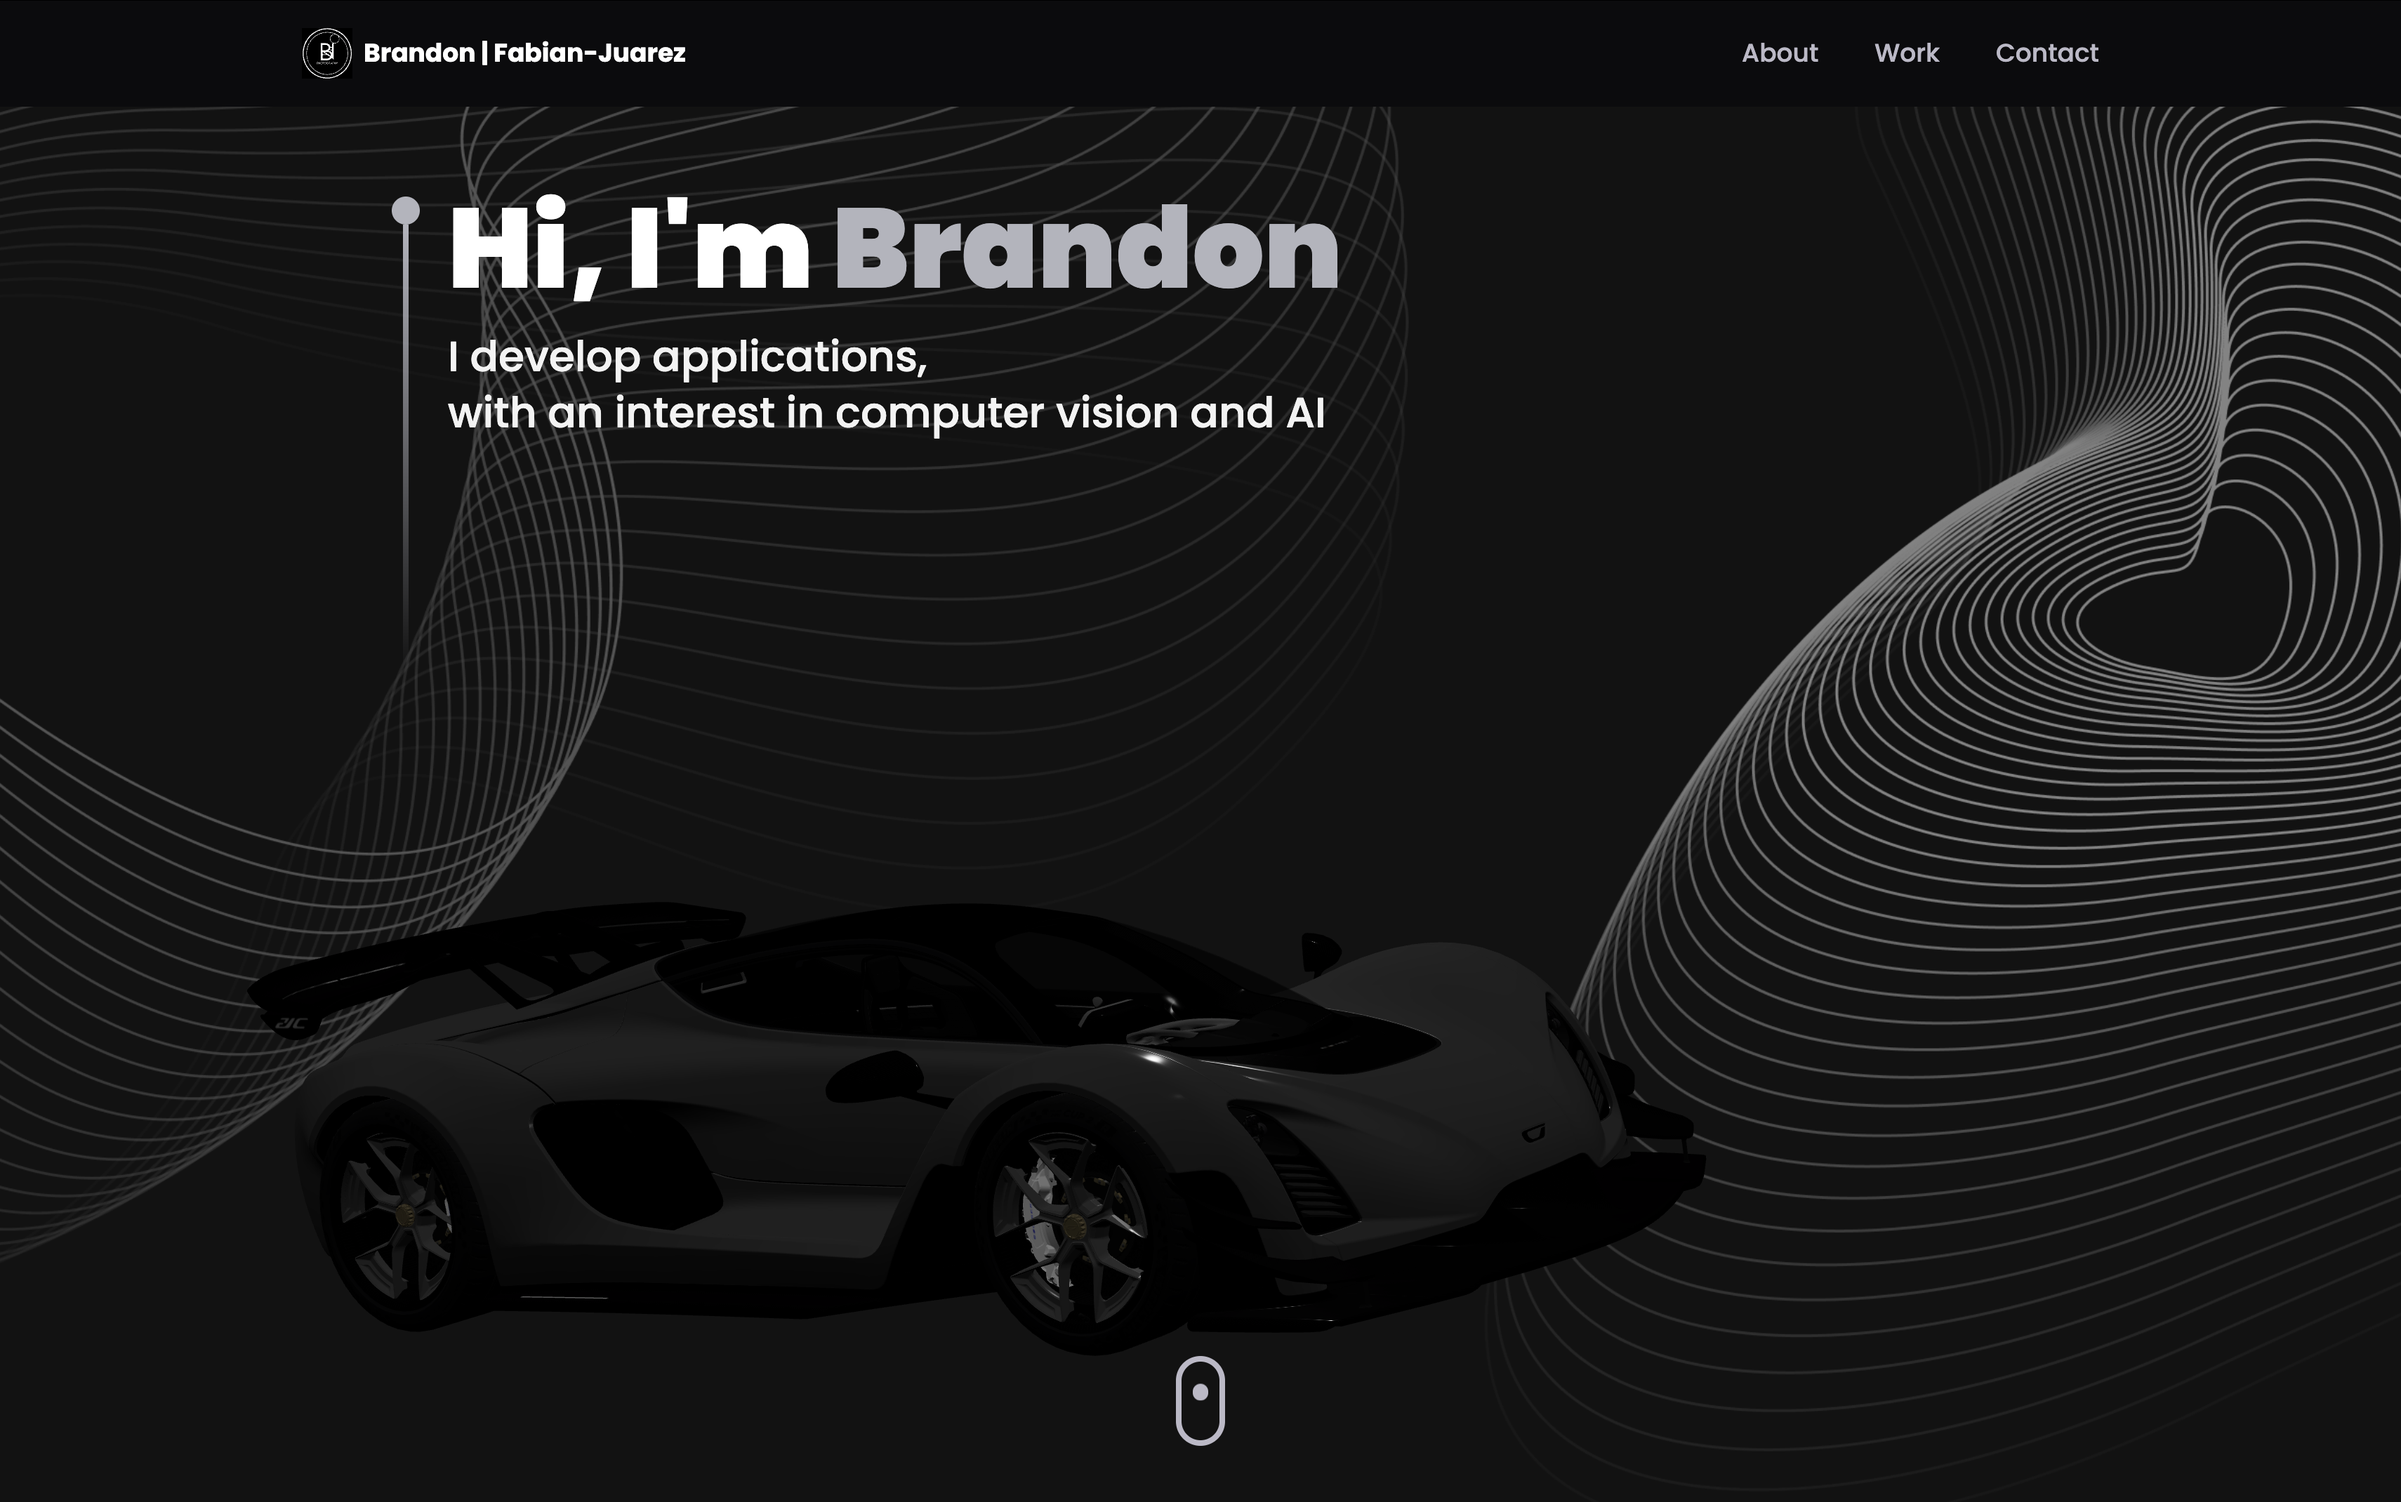
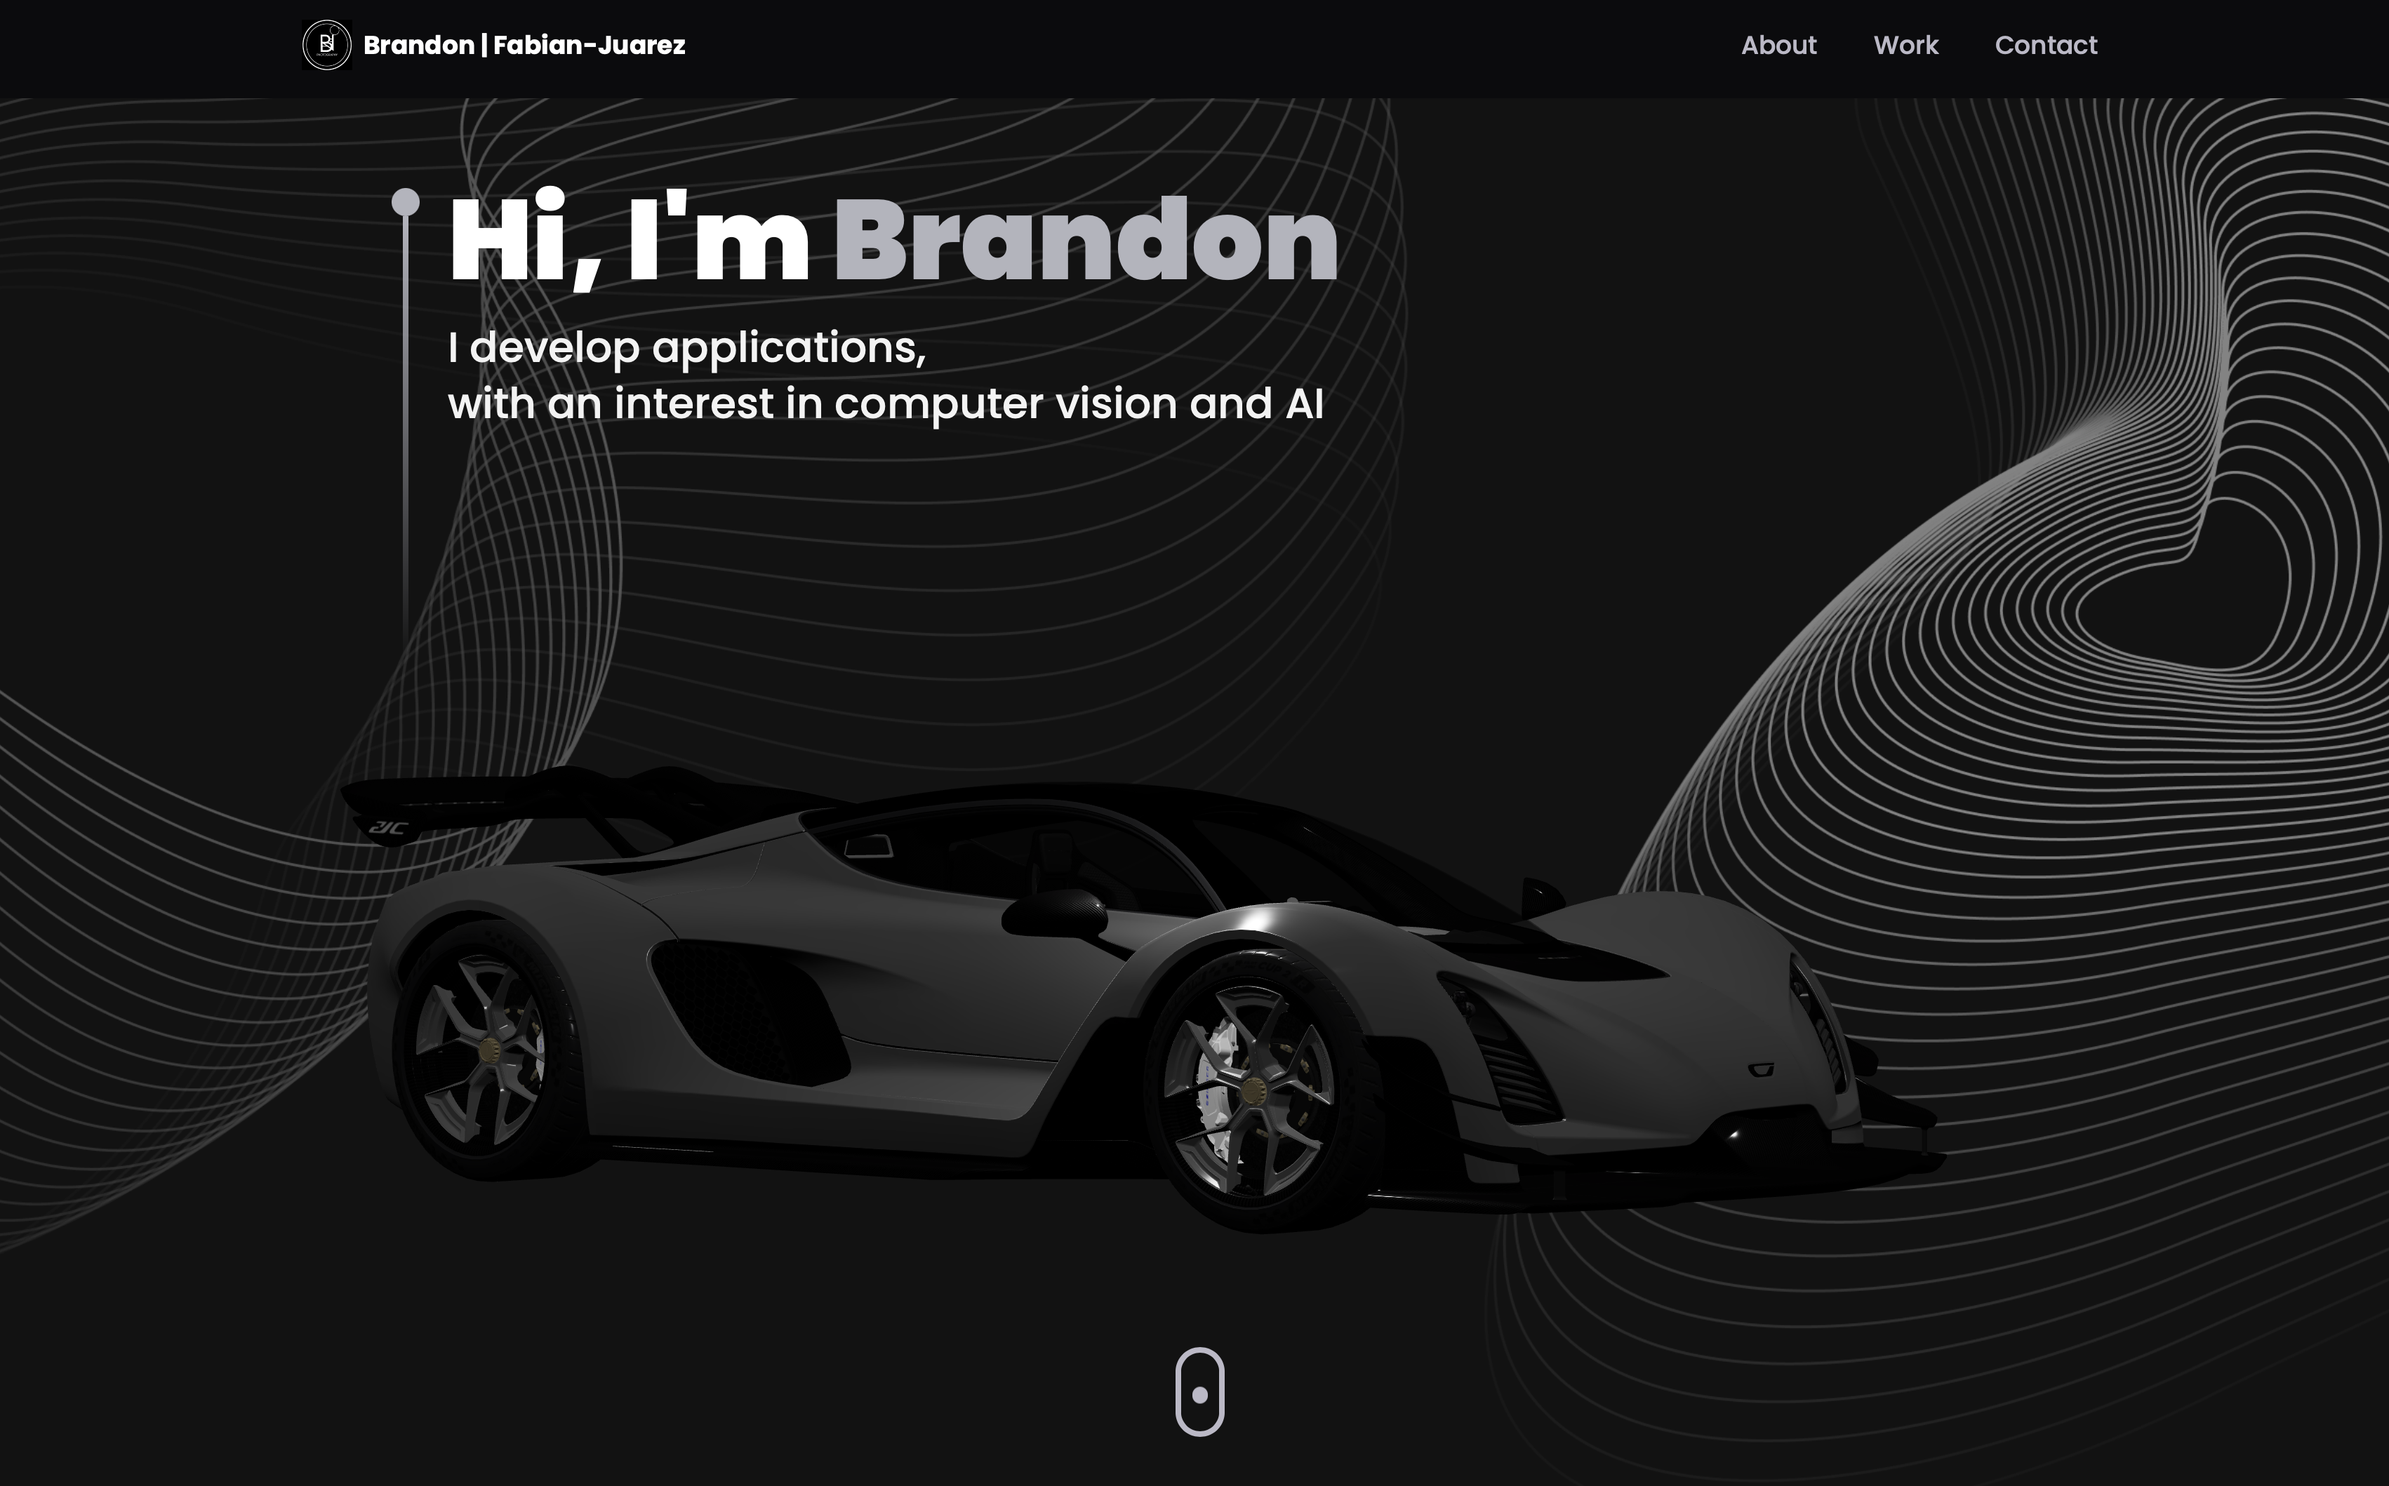
added portfolioWebsite png file made changes to Hero, Computers and index files added new Car file but still debugging it

diff --git a/src/components/canvas/Car.jsx b/src/components/canvas/Car.jsx
@@ -1,0 +1,226 @@
+import { useEffect, useRef } from "react";
+import * as THREE from "three";
+import { GLTFLoader } from "three/addons/loaders/GLTFLoader.js";
+import { OrbitControls } from "three/addons/controls/OrbitControls.js";
+
+const CarCanvas = ( isMobile ) => {
+  const mountRef = useRef(null); // Reference to mount Three.js canvas
+
+  useEffect(() => {
+    // ✅ 1⃣ Setup Renderer
+    const renderer = new THREE.WebGLRenderer({ antialias: true });
+    renderer.outputColorSpace = THREE.SRGBColorSpace;
+    renderer.setSize(window.innerWidth, window.innerHeight);
+    renderer.setClearColor(0x000000); // Background color
+    renderer.setPixelRatio(window.devicePixelRatio);
+    renderer.shadowMap.enabled = true;
+    renderer.shadowMap.type = THREE.PCFSoftShadowMap;
+
+    // Append renderer to div instead of document.body
+    mountRef.current.appendChild(renderer.domElement);
+
+    // ✅ 2⃣ Setup Scene
+    const scene = new THREE.Scene();
+
+    // ✅ 3⃣ Setup Camera
+    const camera = new THREE.PerspectiveCamera(45, window.innerWidth / window.innerHeight, 1, 1000);
+    camera.position.set(4, 5, 11);
+
+    // ✅ 4⃣ Setup Orbit Controls
+    const controls = new OrbitControls(camera, renderer.domElement);
+    controls.enableDamping = true;
+    controls.enablePan = false;
+    controls.minDistance = 5;
+    controls.maxDistance = 20;
+    controls.minPolarAngle = 0.5;
+    controls.maxPolarAngle = 1.5;
+    controls.target.set(0, 1, 0);
+    controls.update();
+
+    // ✅ 5⃣ Add Ground Plane
+    const groundGeometry = new THREE.PlaneGeometry(20, 20, 32, 32);
+    groundGeometry.rotateX(-Math.PI / 2);
+    const groundMaterial = new THREE.MeshStandardMaterial({ color: 0x555555, side: THREE.DoubleSide });
+    const groundMesh = new THREE.Mesh(groundGeometry, groundMaterial);
+    groundMesh.receiveShadow = true;
+    scene.add(groundMesh);
+
+    // ✅ 6⃣ Add Spotlight
+    const spotLight = new THREE.SpotLight(0xffffff, 3000, 100, 0.22, 1);
+    spotLight.position.set(0, 25, 0);
+    spotLight.castShadow = true;
+    spotLight.shadow.bias = -0.0001;
+    scene.add(spotLight);
+
+    // ✅ 7⃣ Load GLTF Model
+    const loader = new GLTFLoader().setPath("./2021_czinger_21c/");
+    loader.load(
+      "scene.gltf",
+      (gltf) => {
+        console.log("Model loaded successfully");
+        const mesh = gltf.scene;
+
+        // Enable shadows on the model
+        mesh.traverse((child) => {
+          if (child.isMesh) {
+            child.castShadow = true;
+            child.receiveShadow = true;
+          }
+        });
+
+        mesh.scale.set(175, 175, 175);
+        // mesh.scale.set(1, 1, 1);  // Try 1:1:1 scale first
+
+        mesh.position.set(0, 1, 0);
+        scene.add(mesh);
+      },
+      (xhr) => {
+        console.log(`Loading model: ${((xhr.loaded / xhr.total) * 100).toFixed(2)}%`);
+      },
+      (error) => {
+        console.error("Error loading model:", error);
+      }
+    );
+
+    // ✅ 8⃣ Handle Window Resize
+    const handleResize = () => {
+      camera.aspect = window.innerWidth / window.innerHeight;
+      camera.updateProjectionMatrix();
+      renderer.setSize(window.innerWidth, window.innerHeight);
+    };
+    window.addEventListener("resize", handleResize);
+
+    // ✅ 9⃣ Animation Loop
+    const animate = () => {
+      requestAnimationFrame(animate);
+      controls.update();
+      renderer.render(scene, camera);
+    };
+    animate();
+
+    // ✅ 🔟 Cleanup on Component Unmount
+    return () => {
+      window.removeEventListener("resize", handleResize);
+      mountRef.current.removeChild(renderer.domElement);
+    };
+  }, []);
+
+  return <div ref={mountRef} className="absolute inset-0 z-[-1]" />;
+};
+
+export default CarCanvas;
+
+
+
+
+// import * as THREE from "three";
+// import { GLTFLoader } from "three/examples/jsm/loaders/GLTFLoader.js";
+// import { OrbitControls } from "three/examples/jsm/controls/OrbitControls.js";
+
+// let scene, camera, renderer, controls;
+
+// // 1⃣ Initialize Scene
+// function init() {
+//   // Create Renderer
+//   renderer = new THREE.WebGLRenderer({ antialias: true });
+//   renderer.setSize(window.innerWidth, window.innerHeight);
+//   renderer.setPixelRatio(window.devicePixelRatio);
+//   renderer.setClearColor(0x000000); // Set background color to black
+//   renderer.shadowMap.enabled = true;
+//   renderer.shadowMap.type = THREE.PCFSoftShadowMap;
+//   document.body.appendChild(renderer.domElement);
+
+//   // Create Scene
+//   scene = new THREE.Scene();
+
+//   // Set Camera
+//   camera = new THREE.PerspectiveCamera(
+//     45,
+//     window.innerWidth / window.innerHeight,
+//     1,
+//     1000
+//   );
+//   camera.position.set(4, 5, 11); // Positioning the camera
+//   scene.add(camera);
+
+//   // Set Controls
+//   controls = new OrbitControls(camera, renderer.domElement);
+//   controls.enableDamping = true;
+//   controls.enablePan = false;
+//   controls.minDistance = 5;
+//   controls.maxDistance = 20;
+//   controls.minPolarAngle = 0.5;
+//   controls.maxPolarAngle = 1.5;
+//   controls.update();
+
+//   // Add Ground Plane
+//   const groundGeometry = new THREE.PlaneGeometry(20, 20, 32, 32);
+//   groundGeometry.rotateX(-Math.PI / 2);
+//   const groundMaterial = new THREE.MeshStandardMaterial({
+//     color: 0x555555,
+//     side: THREE.DoubleSide,
+//   });
+//   const groundMesh = new THREE.Mesh(groundGeometry, groundMaterial);
+//   groundMesh.receiveShadow = true;
+//   scene.add(groundMesh);
+
+//   // Add Lights
+//   const spotLight = new THREE.SpotLight(0xffffff, 3000, 100, 0.22, 1);
+//   spotLight.position.set(0, 25, 0);
+//   spotLight.castShadow = true;
+//   spotLight.shadow.bias = -0.0001;
+//   scene.add(spotLight);
+
+//   // Load Model
+//   loadModel();
+
+//   // Handle Window Resize
+//   window.addEventListener("resize", onWindowResize);
+
+//   // Start Animation Loop
+//   animate();
+// }
+
+// // 2⃣ Load 3D Model
+// function loadModel() {
+//   const loader = new GLTFLoader().setPath("./2021_czinger_21c/");
+//   loader.load(
+//     "scene.gltf",
+//     (gltf) => {
+//       const model = gltf.scene;
+//       model.traverse((child) => {
+//         if (child.isMesh) {
+//           child.castShadow = true;
+//           child.receiveShadow = true;
+//         }
+//       });
+
+//       model.scale.set(175, 175, 175);
+//       model.position.set(0, 1, 0);
+//       scene.add(model);
+//     },
+//     (xhr) => {
+//       console.log(`Loading Model: ${xhr.loaded / xhr.total * 100}%`);
+//     },
+//     (error) => {
+//       console.error("Error loading model:", error);
+//     }
+//   );
+// }
+
+// // 3⃣ Resize Function
+// function onWindowResize() {
+//   camera.aspect = window.innerWidth / window.innerHeight;
+//   camera.updateProjectionMatrix();
+//   renderer.setSize(window.innerWidth, window.innerHeight);
+// }
+
+// // 4⃣ Animation Loop
+// function animate() {
+//   requestAnimationFrame(animate);
+//   controls.update();
+//   renderer.render(scene, camera);
+// }
+
+// // 5⃣ Run Initialization
+// init();

diff --git a/src/components/canvas/Computers.jsx b/src/components/canvas/Computers.jsx
@@ -12,8 +12,8 @@ const Computers = ({ isMobile }) => {
   return (
     <mesh>
       {/* create a light on the canvas */}
-      <hemisphereLight intensity={2} groundColor='black' />
-      <pointLight intensity={1} />
+      <hemisphereLight intensity={3.5} groundColor='black' />
+      <pointLight intensity={10} />
       <spotLight
         position={[-20, 50, 10]}
         angle={0.12}
@@ -27,9 +27,9 @@ const Computers = ({ isMobile }) => {
         object={computer.scene}
         // checks if is mobile 
         // scale={isMobile ? 0.7 : 0.75}
-        scale={isMobile ? 200.0 : 205.0}
-        position={isMobile ? [0, -3, -2.2] : [0, -3.25, -1.5]}
-        rotation={[-0.08, -0.2, 0.1]}
+        scale={isMobile ? 220.0 : 225.0}
+        position={isMobile ? [2, -2.50, -2] : [2, -2.75, -1.5]}
+        rotation={[-0.01, -0.2, -0.01]}
       />
     </mesh>
   );
@@ -65,7 +65,8 @@ const ComputersCanvas = () => {
       frameloop='demand'
       shadows
       dpr={[1, 2]}
-      camera={{ position: [20, 3, 5], fov: 25 }}
+      // camera={{ position: [20, 3, 5], fov: 25 }}
+      camera={{ position: [-20, 15, 10], fov: 18 }}
       gl={{ preserveDrawingBuffer: true }}
     >
       {/* shows a loader element  */}

diff --git a/index.html b/index.html
@@ -5,6 +5,15 @@
     <link rel="icon" type="image/svg+xml" href="./logo.svg" />
     <meta name="viewport" content="width=device-width, initial-scale=1.0" />
     <title>Brandon | Portfolio</title>
+
+    <script type="importmap">
+      {
+        "imports": {
+          "three": "https://cdn.jsdelivr.net/npm/three@0.172.0/build/three.module.js",
+          "three/addons/": "https://cdn.jsdelivr.net/npm/three@v0.172.0/examples/jsm/"
+          }
+      }
+  </script>
   </head>
   <body>
     <div id="root"></div>

diff --git a/src/components/canvas/index.js b/src/components/canvas/index.js
@@ -2,5 +2,6 @@ import EarthCanvas from "./Earth";
 import BallCanvas from "./Ball";
 import ComputersCanvas from "./Computers";
 import StarsCanvas from "./Stars";
+import CarCanvas from "./Car";
 
-export { EarthCanvas, BallCanvas, ComputersCanvas, StarsCanvas };
+export { EarthCanvas, BallCanvas, ComputersCanvas, StarsCanvas, CarCanvas };

diff --git a/src/components/Hero.jsx b/src/components/Hero.jsx
@@ -2,7 +2,7 @@
 import { motion } from "framer-motion";
 
 import { styles } from "../styles";
-import { ComputersCanvas } from "./canvas";
+import { ComputersCanvas, CarCanvas } from "./canvas";
 
 const Hero = () => {
   return (
